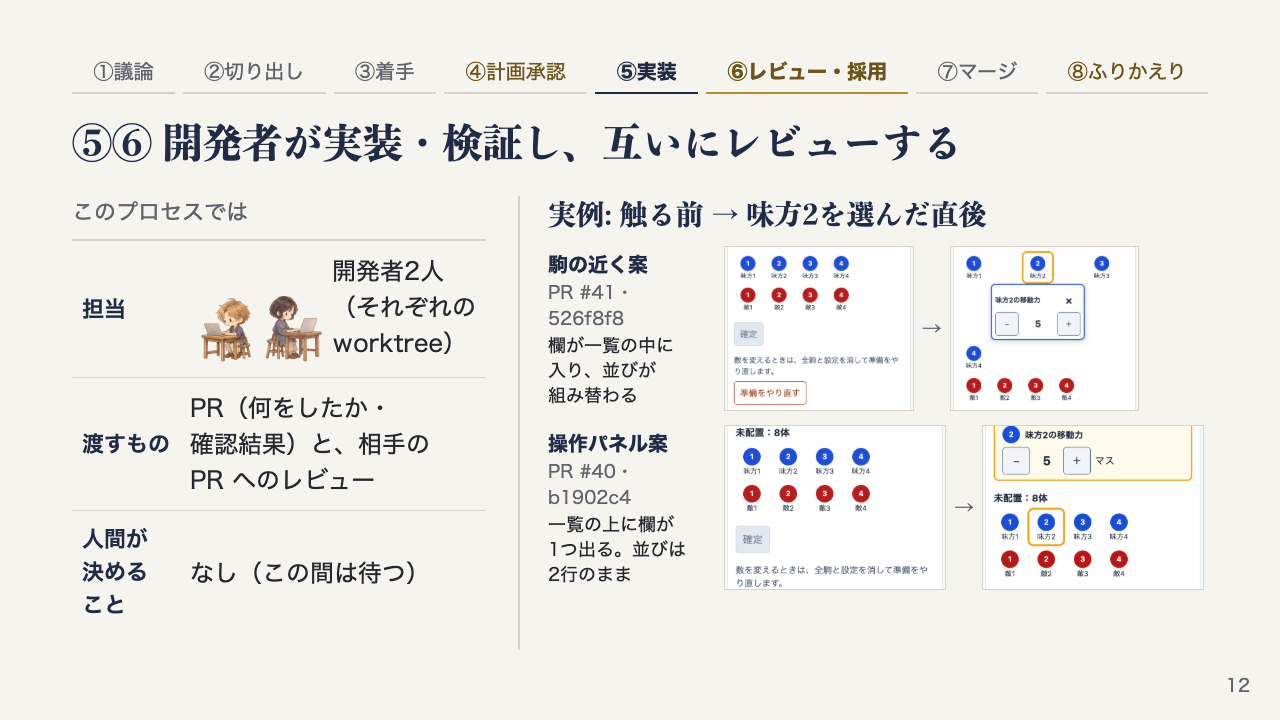
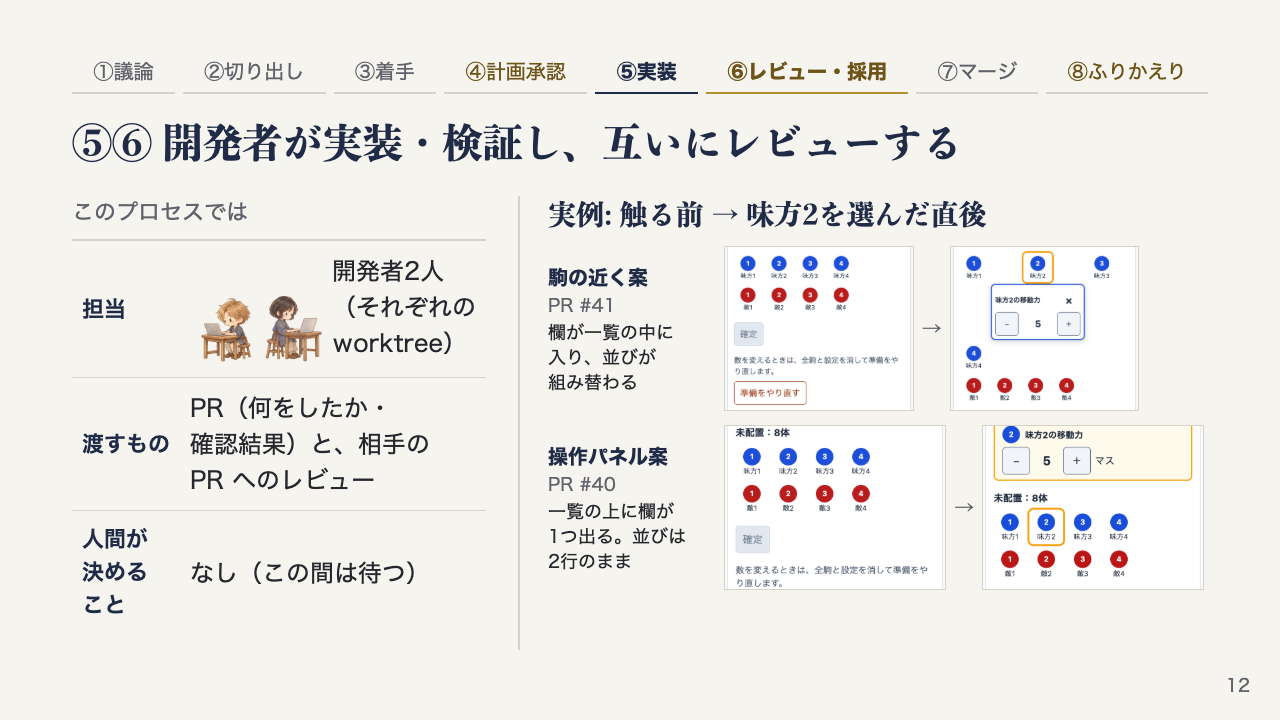
docs: remove commit SHAs from slide bodies and keep them in the notes (#17)
Slides 7, 12, 13, 14: drop SHAs from the visible text; versions stay
traceable in the speaker notes. design.md: the pair caption now holds
the PR number only (version in notes). Previews updated.

Changed region(s): [[0.4062, 0.3361, 0.5312, 0.825]]

diff --git a/docs/design.md b/docs/design.md
@@ -111,7 +111,7 @@ paginate: true
 - **担当の人物**: `<div class="actors">` の中に `<div class="actor">`（`<img class="actor-figure">` 72×72px と `<span class="actor-name">`）。開発者は `actor-figure` を2つ続ける。人間（レナ・ヨナ）は `<img class="people-small">`（120×80px、3:2）。金色を役割の人物の行に使わないため、人間の挿絵は担当の行か判断の行（`decide`）に置き、役割の人物は判断の行に置かない
 - **人物にしない仕組み**: 3つの役割に含めない仕組み（GitHub・Orca の起動係）は、担当の行に `<div class="actor-box">` の文字の枠で置く（1行目に名前、`<span>` に短い補足）。人物の絵やロゴは使わない（10枚目: PO → GitHub（Issue と「開発可」）→ Orca の起動係（定期実行で起動）→ 開発チーム。Issue #17 で追加）
 - **比較画像**: `<div class="shots">` に `<div class="shot">`（`<img>` と説明 `<p>`、版 `<p class="ver">`）。画像の中の文字は読ませず、違いを説明文で書く
-- **スマホ幅の画面**: 縦長の画面の切り抜きは `<div class="shots phone">` にする（16:9 の枠に押し込まず、縦横比のまま高さ 270px までで収める）。本文の下に小さく置くときは `shots phone short`（高さ 200px まで、説明を画像の右に並べる。説明と版は `<div>` で包む。7枚目）。比較画像を大きく見せるページだけ、右の列を `<div class="example wide">`（660px）にする。案ごとに「触る前 → 選んだ直後」を並べるときは `shots phone pair` にし、`.shot` の中に説明（`<div>` に案名 `<p class="name">`・版 `<p class="ver">`・違いの説明 `<p>`）、前の画像、`<span class="arrow">→</span>`、後の画像の順に書く（1案が1行。画像の高さは 165px にそろえる。12枚目: 1280×720 で右の列は幅690px、画像は駒の近く案 190×165px・操作パネル案 222×165px、左の表は幅410px、右の列の下端 590px）。Issue #17 で追加
+- **スマホ幅の画面**: 縦長の画面の切り抜きは `<div class="shots phone">` にする（16:9 の枠に押し込まず、縦横比のまま高さ 270px までで収める）。本文の下に小さく置くときは `shots phone short`（高さ 200px まで、説明を画像の右に並べる。説明と版は `<div>` で包む。7枚目）。比較画像を大きく見せるページだけ、右の列を `<div class="example wide">`（660px）にする。案ごとに「触る前 → 選んだ直後」を並べるときは `shots phone pair` にし、`.shot` の中に説明（`<div>` に案名 `<p class="name">`・PR 番号 `<p class="ver">`（版はノート）・違いの説明 `<p>`）、前の画像、`<span class="arrow">→</span>`、後の画像の順に書く（1案が1行。画像の高さは 165px にそろえる。12枚目: 1280×720 で右の列は幅690px、画像は駒の近く案 190×165px・操作パネル案 222×165px、左の表は幅410px、右の列の下端 590px）。Issue #17 で追加
 - **往復の表**: 1ページに6行の表が要るときは `<table class="duty loop">`。高さに収めるため 22px・上下 9px の余白にしている（13枚目。本文の下端の上限 664px に対し、Orca のブラウザで測ったページ内の下端は 720px 基準で 636px。Issue #17 の前提追加後）
 
 上部の段階の行と見出しで約 190px を使うので、表と実例の列に使える高さは約 470px（Issue #17 の前提追加後、9〜14枚目の下端の実測は 555〜650px。下端が最も下にあるのは12枚目）。項目を足したら手元の画像と CI の PDF で確かめる。
